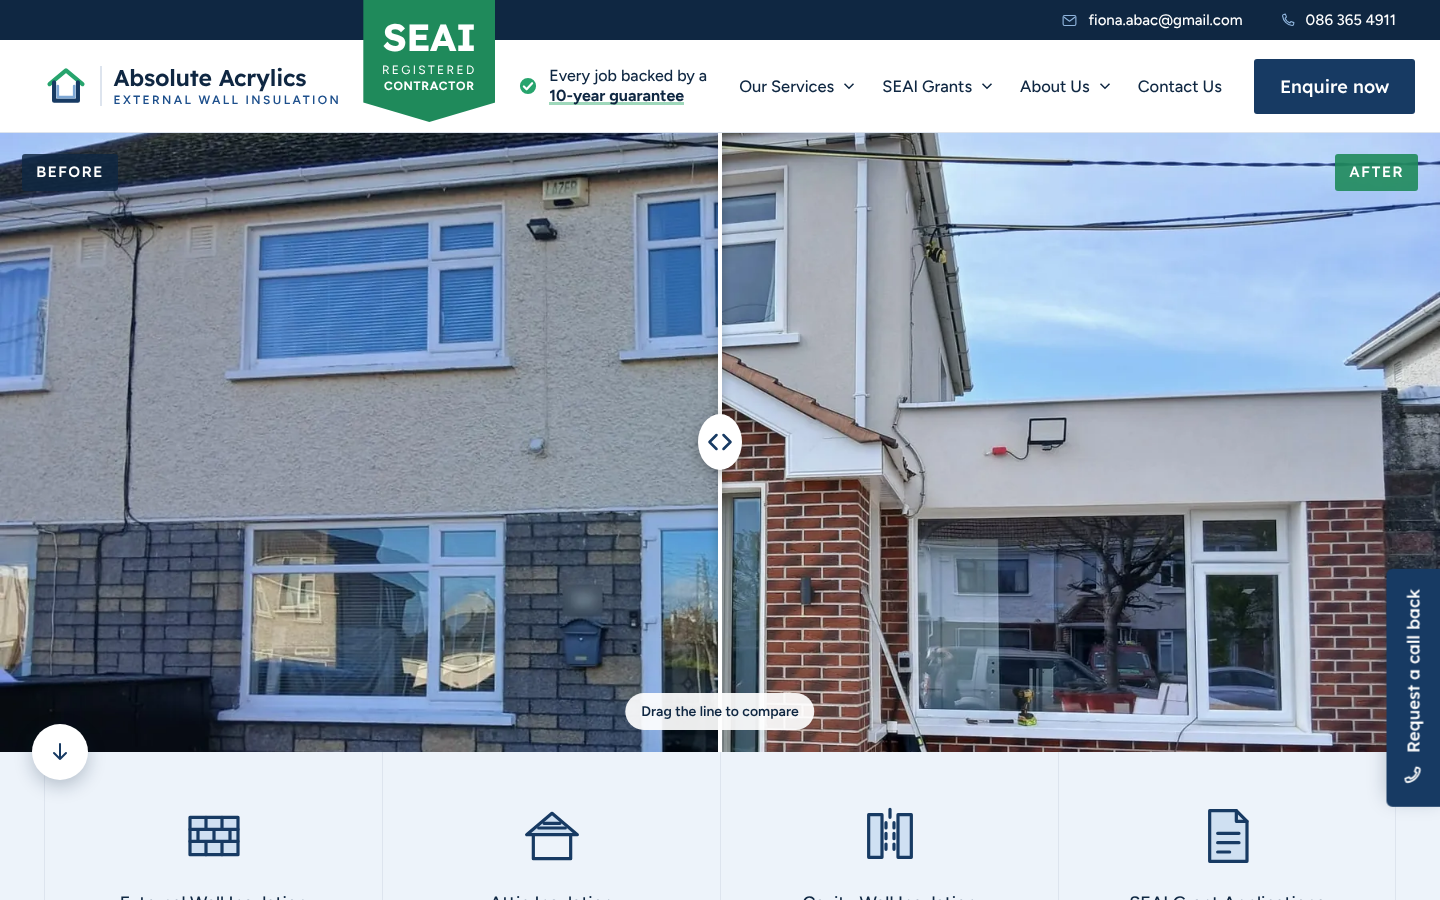
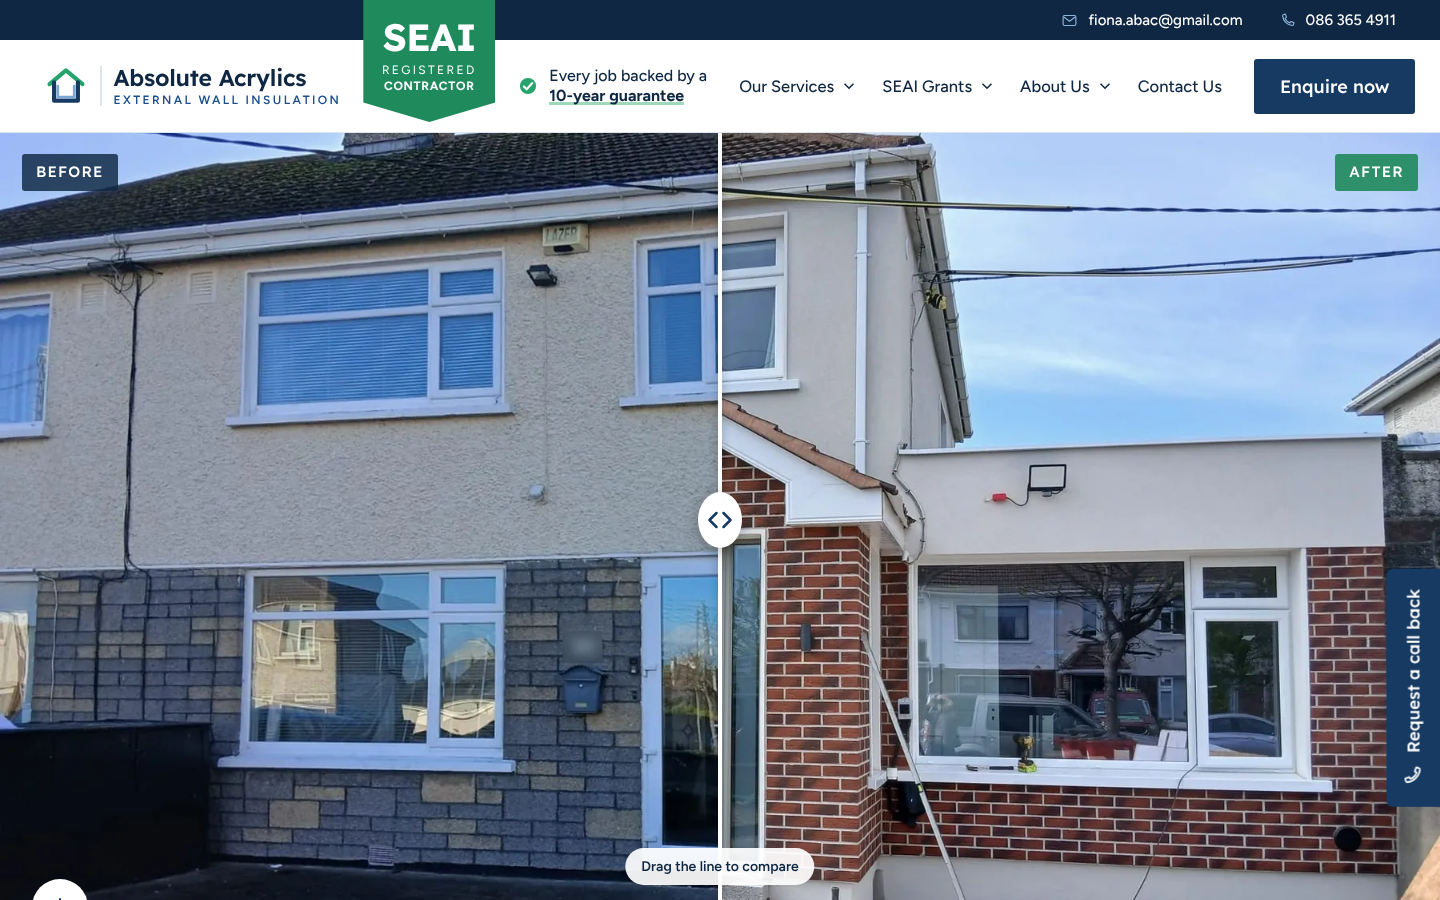
Make the before and after photo 25% taller
Claude-Session: https://claude.ai/code/session_01WeS28umk1cRjk6i7Cftnfi

diff --git a/css/home.css b/css/home.css
@@ -100,7 +100,7 @@ svg { flex: none; }
 .hero { position: relative; background: var(--navy); }
 .compare {
   position: relative; overflow: hidden; user-select: none; -webkit-user-select: none;
-  height: clamp(340px, 56vw, 740px); max-height: calc(100vh - 280px); min-height: 340px;
+  height: clamp(425px, 70vw, 925px); max-height: calc((100vh - 280px) * 1.25); min-height: 425px;
   touch-action: pan-y; cursor: ew-resize;
 }
 .compare-img { position: absolute; inset: 0; width: 100%; height: 100%; object-fit: cover; object-position: 50% 30%; pointer-events: none; -webkit-user-drag: none; }
@@ -222,7 +222,7 @@ svg { flex: none; }
   .badge-low { font-size: 7px; letter-spacing: .02em; }
   .head-cta { display: none; }
   .burger { margin-left: auto; }
-  .compare { height: auto; aspect-ratio: 4 / 3.4; max-height: none; min-height: 0; }
+  .compare { height: auto; aspect-ratio: 4 / 4.25; max-height: none; min-height: 0; }
   .tag { top: 14px; font-size: 12px; padding: 5px 10px; }
   .tag-before { left: 14px; }
   .tag-after { right: 14px; }
